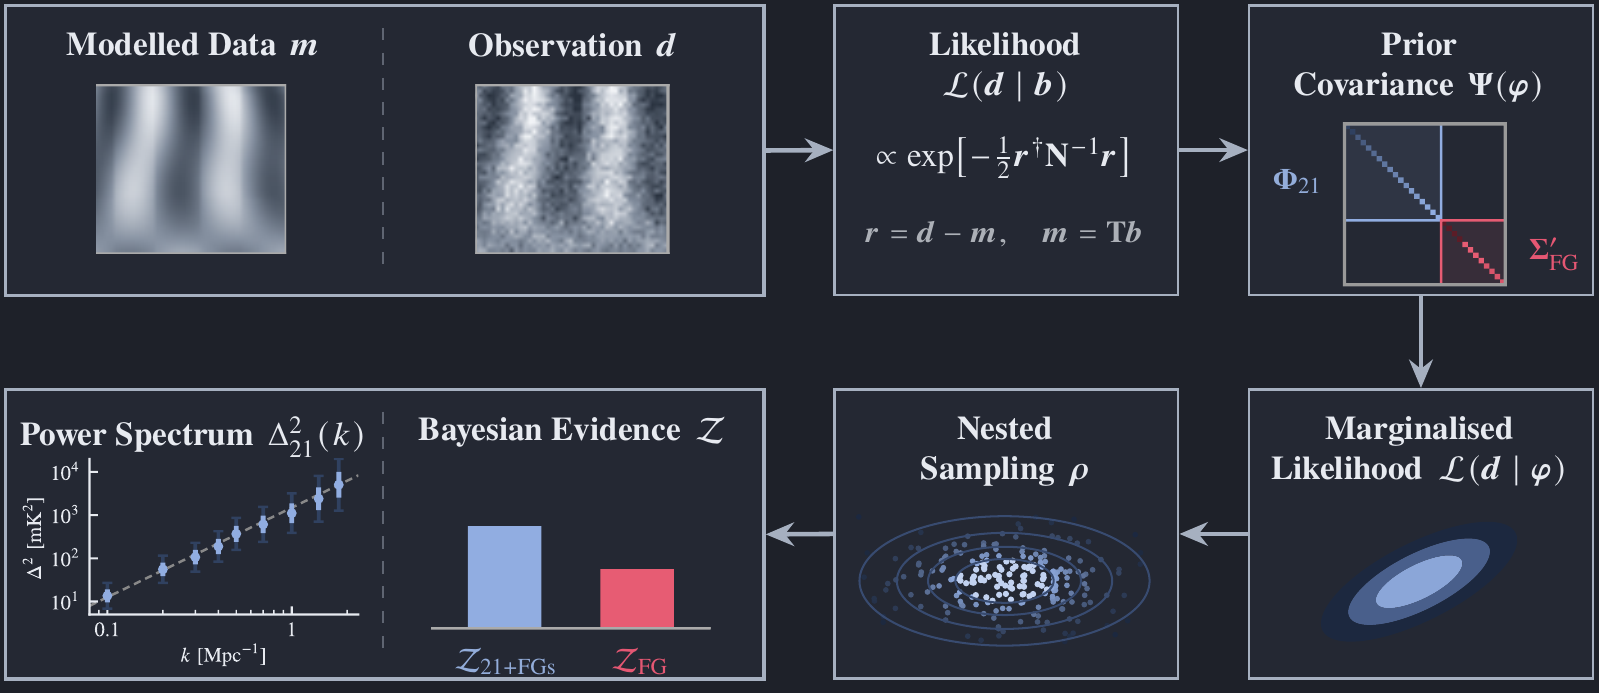
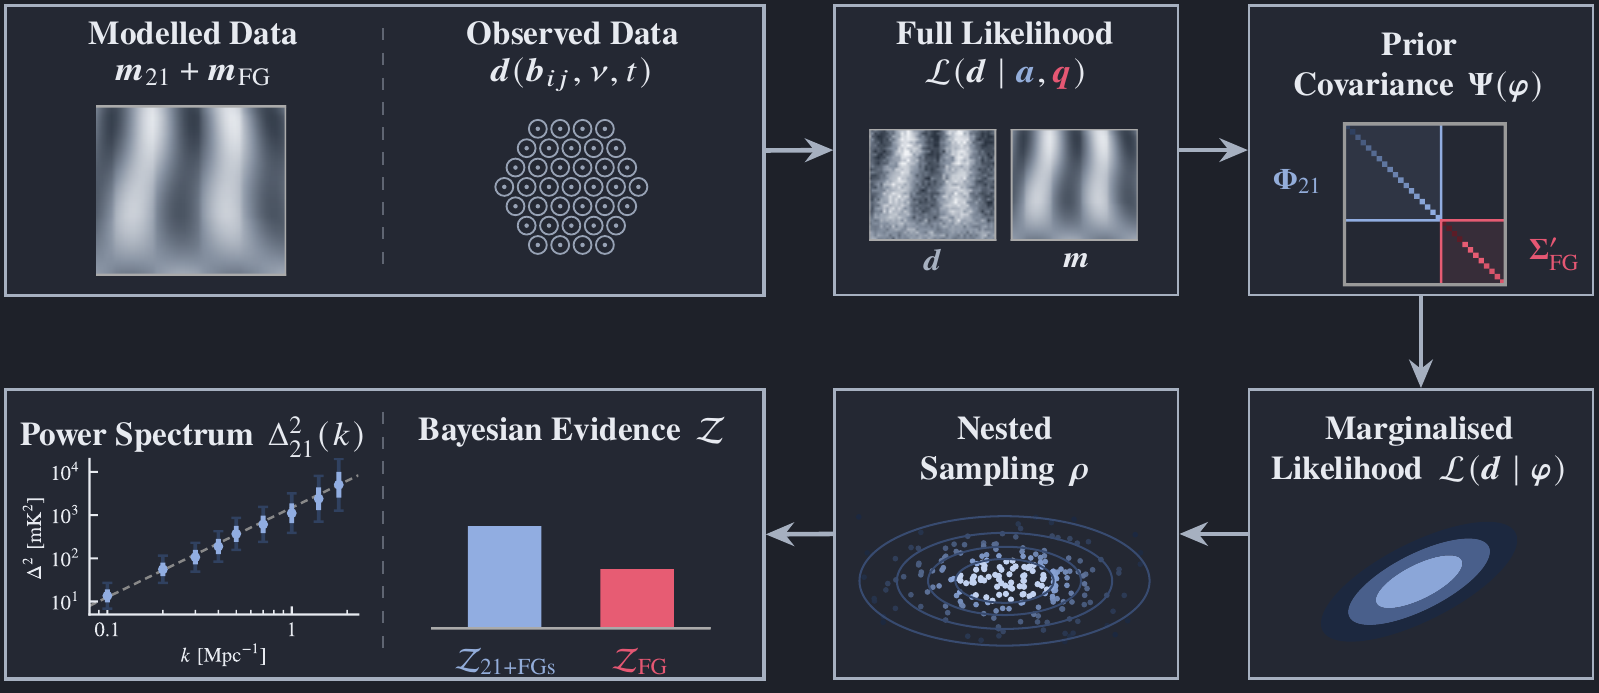
Align inference panels with existing workflow illustrations

diff --git a/tools/docs_diagrams/inference_workflow.tex b/tools/docs_diagrams/inference_workflow.tex
@@ -5,17 +5,20 @@
 % Top row: compare model and observation, then introduce the coefficient prior.
 \node[panel=infc,minimum width=6.42cm,minimum height=2.45cm] (data) at (0.45,0) {};
 \draw[infc!45!panelbg,dashed,line width=0.5pt] (3.66,-0.20)--(3.66,-2.25);
-\node[ttl,anchor=north] at (2.055,-0.12) {Modelled Data\ \mdseries\,$\bm m$};
-\node[ttl,anchor=north] at (5.265,-0.12) {Observation\ \mdseries\,$\bm d$};
-% The right-hand waterfall is noiseless; the left-hand waterfall includes noise.
-\node[thumb] at (2.055,-1.40) {\includegraphics[trim=1.219cm 0 0 0,clip,width=1.65cm]{icon_likelihood.pdf}};
-\node[thumb] at (5.265,-1.40) {\includegraphics[trim=0 0 1.219cm 0,clip,width=1.65cm]{icon_likelihood.pdf}};
+\node[ttl] at (2.055,-0.25) {Modelled Data};
+\node[lbl] at (2.055,-0.60) {$\bm m_{21}+\bm m_{\rm FG}$};
+\node[ttl] at (5.265,-0.25) {Observed Data};
+\node[lbl] at (5.265,-0.60) {$\bm d(\bm b_{ij},\nu,t)$};
+% Match the model-only waterfall and observed-array panels in the other workflows.
+\node[thumb] at (2.055,-1.58) {\includegraphics[trim=1.219cm 0 0 0,clip,width=1.65cm]{icon_likelihood.pdf}};
+\node[thumb] at (5.265,-1.56) {\includegraphics{icon_array.pdf}};
 
 \node[stage] (like) at (7.47,0) {};
-\node[ttl,anchor=north] at (8.925,-0.12) {Likelihood};
-\node[lbl] at (8.925,-0.70) {$\mathcal L(\bm d\mid\bm b)$};
-\node[lbl] at (8.925,-1.30) {$\propto\exp\!\left[-\tfrac12\bm r^\dagger\mathbf N^{-1}\bm r\right]$};
-\node[small] at (8.925,-1.95) {$\bm r=\bm d-\bm m,\quad\bm m=\mathbf T\bm b$};
+\node[ttl] at (8.925,-0.25) {Full Likelihood};
+\node[lbl] at (8.925,-0.59) {$\mathcal L(\bm d\mid\textcolor{eorc}{\bm a},\textcolor{fgc}{\bm q})$};
+\node[thumb] at (8.925,-1.53) {\includegraphics{icon_likelihood.pdf}};
+\node[font=\scriptsize,text=instc] at (8.315,-2.17) {$\bm d$};
+\node[font=\scriptsize] at (9.535,-2.17) {$\bm m$};
 
 \node[stage] (prior) at (10.98,0) {};
 \node[ttl,anchor=north] at (12.435,-0.12) {Prior\\Covariance\ \mdseries\,$\mathbf\Psi(\bm\varphi)$};
